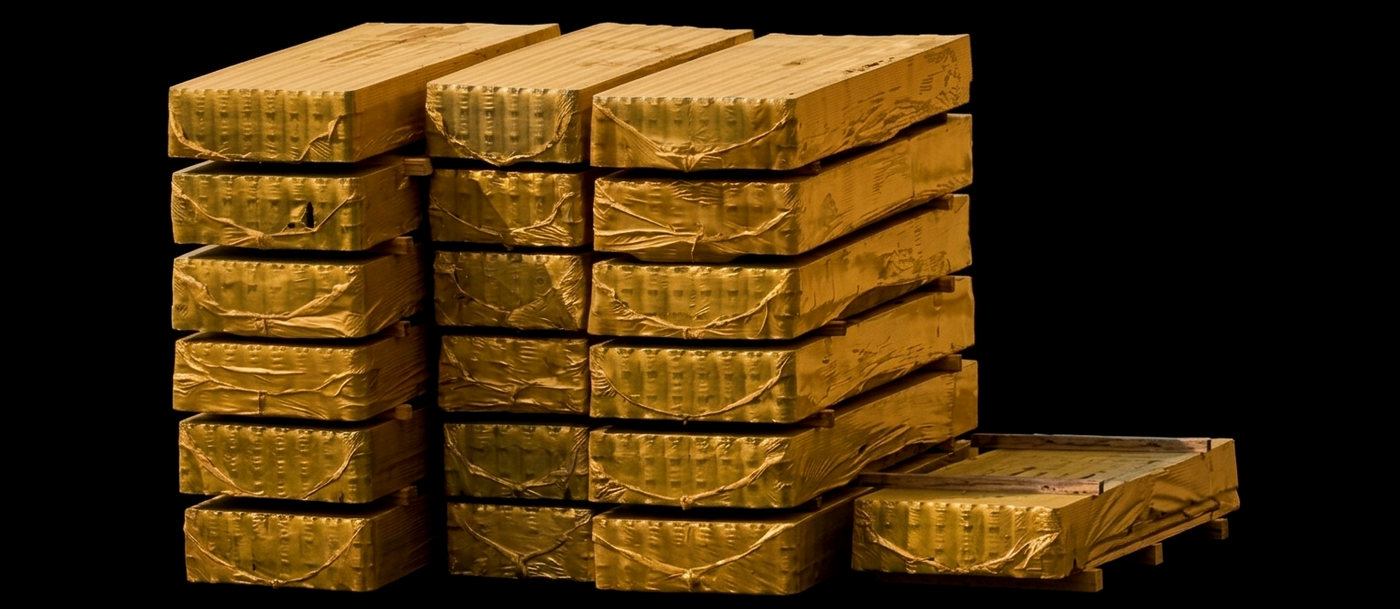
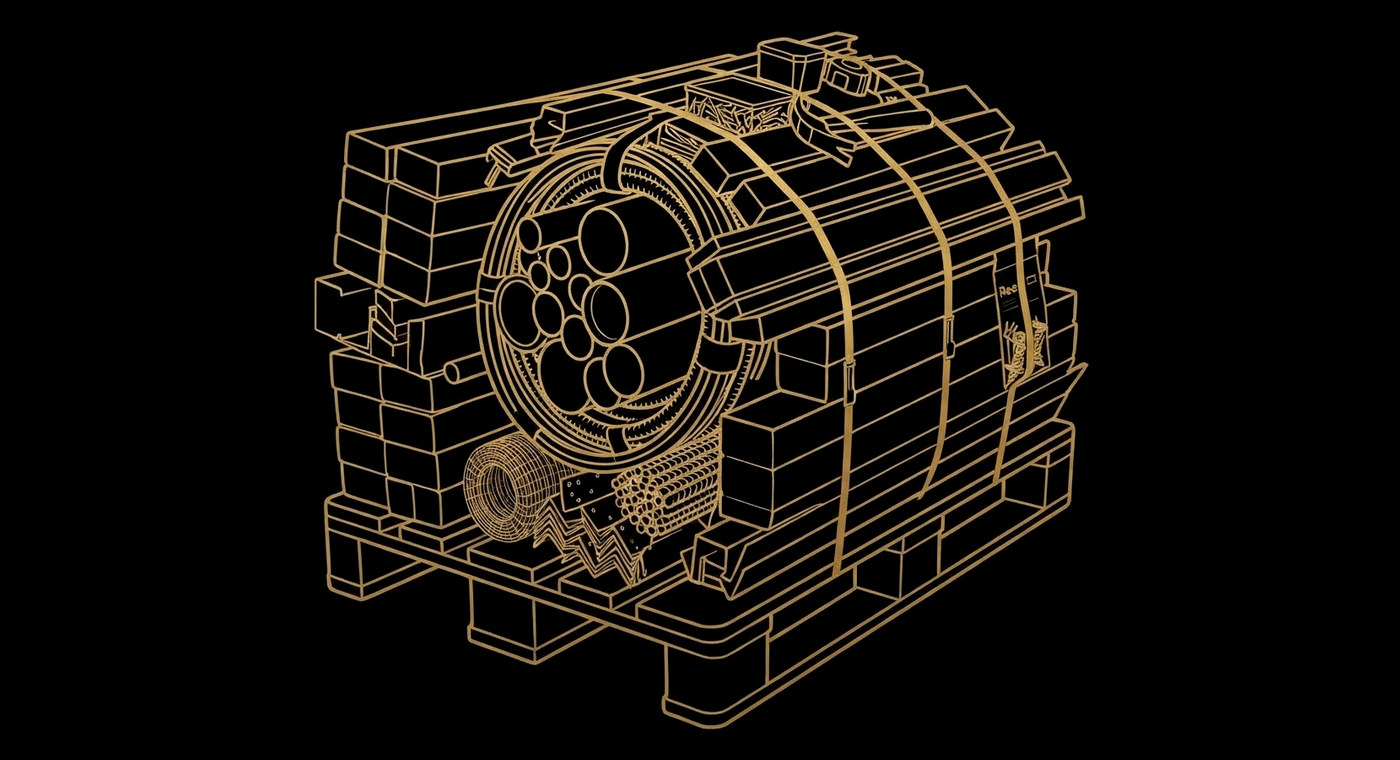
Zwei Wege: die neuen Strichzeichnungen, auf gleiche Fläche gebracht (#145)
* Netzwerk: Kopf ueber die volle Breite, zwei Spalten statt drei

Die Seite wirkte gequetscht und unnatuerlich. Die Ursache war strukturell,
nicht kosmetisch: die grosse Ueberschrift stand in der schmalen Mittelspalte
eines Dreispalters. Dort brach sie um ("Mit wem du baust — und wer in ZH
dazupasst" ueber zwei Zeilen), und links wie rechts drueckten Schienen
dagegen. Ein Seitenkopf gehoert ueber die volle Breite, mit Luft darum — so
machen es Linear und Stripe; erst darunter beginnt die Arbeitsflaeche.

Neuer Aufbau:
- Kopf ueber die ganze Breite: Eyebrow, Ueberschrift, Lauftext, zwei
  Aktionen. Darunter eine Haarlinie als Abschluss.
- Darunter zwei Spalten statt drei. Die Listen bekommen die breite Spalte,
  alles Weiterfuehrende eine schmale Schiene. Die dritte Spalte war der
  Grund fuer die Enge.
- In der Schiene steht der Ueberblick zuoberst — er ist die
  Hauptinformation. Die weiterfuehrenden Verweise folgen darunter.
- Nur noch EIN Gold-Knopf, im Kopf. In der schmalen Schiene standen zwei
  weitere; auf so wenig Raum entwerten sie sich gegenseitig. Dort stehen
  jetzt Textverweise.
- Der Lauftext im Kopf war auf max-w-lg gedrosselt und brach schon nach
  sieben Woertern um.

Geprueft in 1440 px und im iPhone-13-Profil, keine Ueberbreite.

Claude-Session: https://claude.ai/code/session_01Ko4oW5gCRDPHcDC6YSFcJF

* Smart Pools und Referenzpreise ohne Kästchen

Beide Seiten trugen noch die alte Sprache: ein dunkles Panel mit Raster
[…]

diff --git a/components/home/TwoWays.tsx b/components/home/TwoWays.tsx
@@ -6,18 +6,23 @@ import { BTN_LIGHT, D_MD, EYEBROW, SECTION, SHELL } from "@/lib/ui";
  * Zwei Wege zum besseren Preis.
  *
  * Aufbau nach dem Vorbild der Robinhood-Karten: dunkler Grund, sehr weiche
- * Ecken, Titel und ein kurzer Satz oben, ein runder Knopf — und darunter
- * das Motiv über die ganze Breite, bündig an der unteren Kante.
+ * Ecken, Titel und ein kurzer Satz oben, ein Knopf — und darunter das
+ * Motiv über die ganze Breite, bündig an der unteren Kante.
  *
- * Vorher stand das Bild klein und mittig in einer Bühne mit Rand ringsum.
- * Das las sich wie ein Symbol in einem Kästchen. Über die volle Breite
- * wird es zur Grundfläche der Karte: der Handschlag reicht mit beiden
- * Armen bis an die Ränder, der Bündelstapel steht auf der Unterkante.
+ * Die beiden Motive sind Strichzeichnungen in Gold auf Schwarz. Sie kamen
+ * in verschiedenen Formaten — das Bündel quadratisch, der Handschlag
+ * breit. Beide liegen jetzt freigestellt und mittig auf derselben Fläche
+ * von 1400 × 760, mit Luft ringsum. Das ist der Grund, warum die zwei
+ * Karten exakt gleich hoch sind und keine Zeichnung an einer Kante
+ * abgeschnitten wird.
  *
- * Es braucht dafür weder Verlauf noch Maske. Beide Aufnahmen haben nach
- * der Schwarzpunkt-Korrektur exakt 0/0/0 als Hintergrund, und die Karte
- * ist ebenfalls schwarz — die Bildkante ist damit unsichtbar, und das
- * Motiv scheint direkt auf der Karte zu liegen.
+ * Eine Strichzeichnung braucht diese Luft. Ein Foto darf randlos laufen,
+ * eine Zeichnung nicht: sie ist ein Objekt mit Aussenkontur, und wo die
+ * Kontur die Bildkante trifft, sieht es nach Fehler aus.
+ *
+ * Weder Verlauf noch Maske nötig — nach der Schwarzpunkt-Korrektur ist
+ * der Hintergrund exakt 0/0/0, und die Karte ist ebenfalls schwarz. Die
+ * Bildkante ist damit unsichtbar.
  */
 
 function Card({
@@ -58,7 +63,7 @@ function Card({
           alt={alt}
           loading="lazy"
           width={1400}
-          height={609}
+          height={760}
           className="block w-full select-none"
         />
       </div>
@@ -86,7 +91,7 @@ export default function TwoWays() {
             cta="Smart Pools ansehen"
             href="/pools"
             src="/art-buendel.jpg"
-            alt="Gestapelte, zu einem Bündel geschnürte Materialpakete"
+            alt="Strichzeichnung: eine zu einem Bündel geschnürte Palette mit Baumaterial"
           />
 
           <Card
@@ -95,7 +100,7 @@ export default function TwoWays() {
             cta="Zum Netzwerk"
             href="/network"
             src="/art-direkt.jpg"
-            alt="Handschlag als Zeichen des direkten Abschlusses"
+            alt="Strichzeichnung: ein Handschlag als Zeichen des direkten Abschlusses"
           />
         </div>
       </div>
